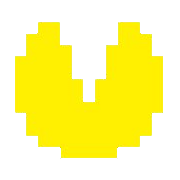
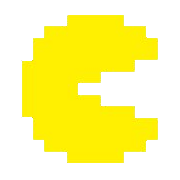
buggy movement

Changed region(s): [[0.0833, 0.0833, 0.9167, 0.9167]]

diff --git a/game.py b/game.py
@@ -1,4 +1,7 @@
+import math
+from os import remove
 import pygame
+from pygame.sprite import Sprite
 
 from player import Player
 from enemy import Enemy
@@ -18,15 +21,16 @@ class PacMan(object):
         self.frame_rate = 60
         
         self.enemies = []
-        
-        self.keys_pressed = [False, False, False, False]
+
+        self.look_up_list = [0, 1, 2, 3]
         
         self.size = [x_size, y_size]
         self.grid = self.load_map()
         self.block_size = tyle_size
-        
+                
         self.player_speed = 11
-        self.player = Player(self.player_speed)
+
+        self.player = Player(self.player_speed, self)
         
         self.renderer = RenderEngine(win, self, tyle_size, x_size, y_size)
     
@@ -62,40 +66,38 @@ class PacMan(object):
             if event.type == pygame.QUIT:
                 self.run = False
                 pygame.quit()
+                return
             
             if event.type == pygame.KEYDOWN:
-                if event.key == pygame.K_LEFT:
-                    self.keys_pressed[0] = True
-                if event.key == pygame.K_UP:
-                    self.keys_pressed[1] = True
-                if event.key == pygame.K_RIGHT:
-                    self.keys_pressed[2] = True
-                if event.key == pygame.K_DOWN:
-                    self.keys_pressed[3] = True
-                    
-            if event.type == pygame.KEYUP:
-                if event.key == pygame.K_LEFT:
-                    self.keys_pressed[0] = False
-                if event.key == pygame.K_UP:
-                    self.keys_pressed[1] = False
-                if event.key == pygame.K_RIGHT:
-                    self.keys_pressed[2] = False
-                if event.key == pygame.K_DOWN:
-                    self.keys_pressed[3] = False
+                movementKeys = [pygame.K_LEFT, pygame.K_RIGHT, pygame.K_UP, pygame.K_DOWN]
+                
+                for i, key in enumerate(movementKeys):
+                    if event.key == key:
+                        self.look_up_list.insert(0, self.look_up_list.pop(self.look_up_list.index(i)))
     
+    def removeAllKeyPressed(self):
+        for i in range(len(self.keys_pressed)):
+            self.keys_pressed[i] = False
     
     def render(self):
         self.renderer.new_screen()
         self.renderer.draw_background()
-        self.renderer.draw_grid_lines()
+        # self.renderer.draw_grid_lines()
         self.renderer.render_grid(self.grid)
         self.renderer.draw_player()
             
     def frame(self):
-        delta = self.clock.get_rawtime()
-        for i, key in enumerate(self.keys_pressed):
-            if key:
-                self.player.send_key(i, delta)
+        delta = self.clock.get_rawtime() / 1000
+        
+        self.player.update_movement_possible()
+        
+        directions = [[-1, 0], [1, 0], [0, -1], [0, 1]]
+        for i in self.look_up_list:
+            if self.player.movementPossible[i]:
+                pos = directions[i]
+                self.player.move(x=pos[0] * delta * self.player_speed, y=pos[1] * delta * self.player_speed)
+                break
+        
         
         self.clock.tick(self.frame_rate)
         

diff --git a/render.py b/render.py
@@ -1,5 +1,4 @@
 import pygame
-from pygame.constants import SCRAP_SELECTION
 class RenderEngine(object):
     def __init__(self, win, game, block_size, x_size, y_size):
         self.win = win
@@ -8,7 +7,9 @@ class RenderEngine(object):
         self.screen_size_x = x_size
         self.screen_size_y = y_size
         self.block_size = block_size
-        self.playerImg = [pygame.image.load(f"img/0.png"), pygame.image.load(f"img/1.png"), pygame.image.load(f"img/2.png"), pygame.image.load(f"img/3.png")]
+        
+        self.sprites = [pygame.image.load("img/0.png"), pygame.image.load("img/1.png"), pygame.image.load("img/2.png"), pygame.image.load("img/3.png")]
+        
         self.bg = pygame.transform.scale(pygame.image.load("bg.png"), (self.screen_size_x * self.block_size, self.screen_size_y * self.block_size))
         
     def new_screen(self):
@@ -21,9 +22,11 @@ class RenderEngine(object):
             pygame.draw.line(self.win, (128, 128, 128), (0, j * self.block_size), (self.block_size * self.screen_size_x, j * self.block_size))
     
     def draw_player(self):
-        img = pygame.transform.scale(self.playerImg[self.player.rotation], (self.block_size * 2, self.block_size * 2))
-        self.win.blit(img, (self.player.x * self.block_size - img.get_width() / 2, self.player.y * self.block_size - img.get_height() / 4))
-            
+        img = self.sprites[self.player.rotation]
+        img = pygame.transform.scale(img, (self.block_size * 2, self.block_size * 2))
+        
+        self.win.blit(img, (self.player.x * self.block_size - img.get_width() / 4, self.player.y * self.block_size - img.get_height() / 4))
+        
     def draw_background(self):
         self.win.blit(self.bg, (0, 0))
         pass

diff --git a/player.py b/player.py
@@ -1,20 +1,44 @@
+import math
+
+import pygame
+
+
 class Player(object):
-    def __init__(self, speed):
-        self.x = 13.5
+    def __init__(self, speed, game):
+        self.x = 14
         self.y = 26
         self.speed = speed
         
-        self.rotation = 0
+        self.game = game
         
-        self.dir_x = 0
-        self.dir_y = 0
+        self.rotation = 0
+        self.movementPossible = [True, True, True, True]
+        
+        self.animation_step = 0
+        self.animation_index = 1
+        
+        self.last_anim_frame = 0
+        
+        self.direction = (-1, 0)
+        
+    def update_movement_possible(self):
+        pos = [[-1, 0], [1, 0], [0, -1], [0, 1]]
+        x_last_pos = math.floor(self.x) if self.direction[0] > 0 else math.ceil(self.x)
+        y_last_pos = math.floor(self.y) if self.direction[1] > 0 else math.ceil(self.y)
+        
+        for i, direction in enumerate(pos):
+            if self.game.grid[y_last_pos + direction[1]][x_last_pos + direction[0]].type == "border":
+                self.movementPossible[i] = False
+            else:
+                self.movementPossible[i] = True
     
-    def send_key(self, index, delta):
-        if index == 0:
-            self.x -= delta/1000 * self.speed
-        if index == 1:
-            self.y -= delta/1000 * self.speed
-        if index == 2:
-            self.x += delta/1000 * self.speed
-        if index == 3:
-            self.y += delta/1000 * self.speed
+    def move(self, x=0, y=0):
+        self.direction = (x, y)
+    
+        self.x += x
+        self.y += y
+        
+        if self.x < 0:
+            self.x = self.game.size[0]
+        if self.x > self.game.size[0]:
+            self.x = 0
